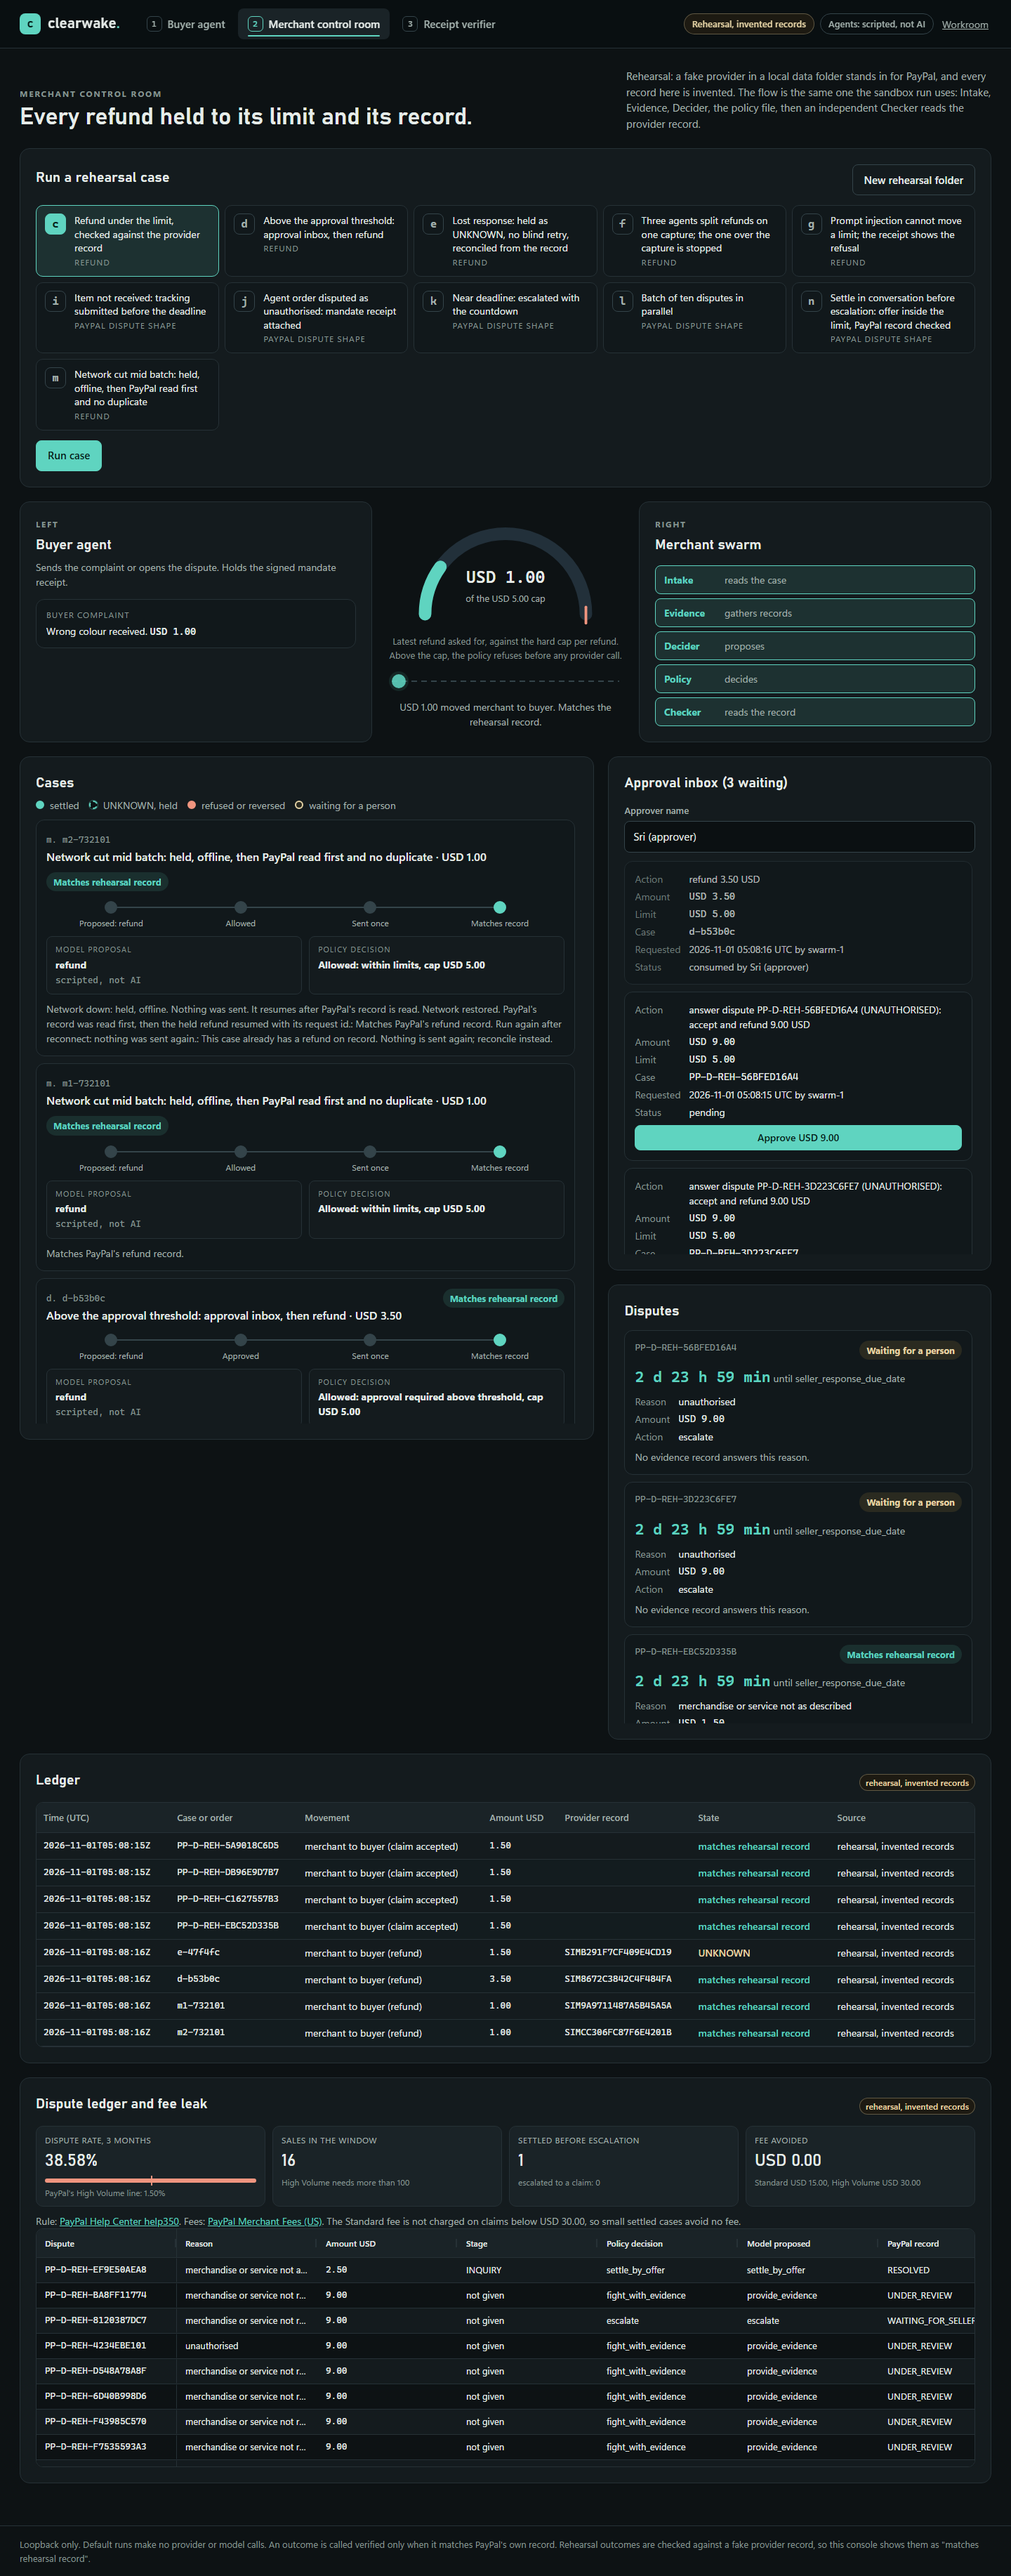
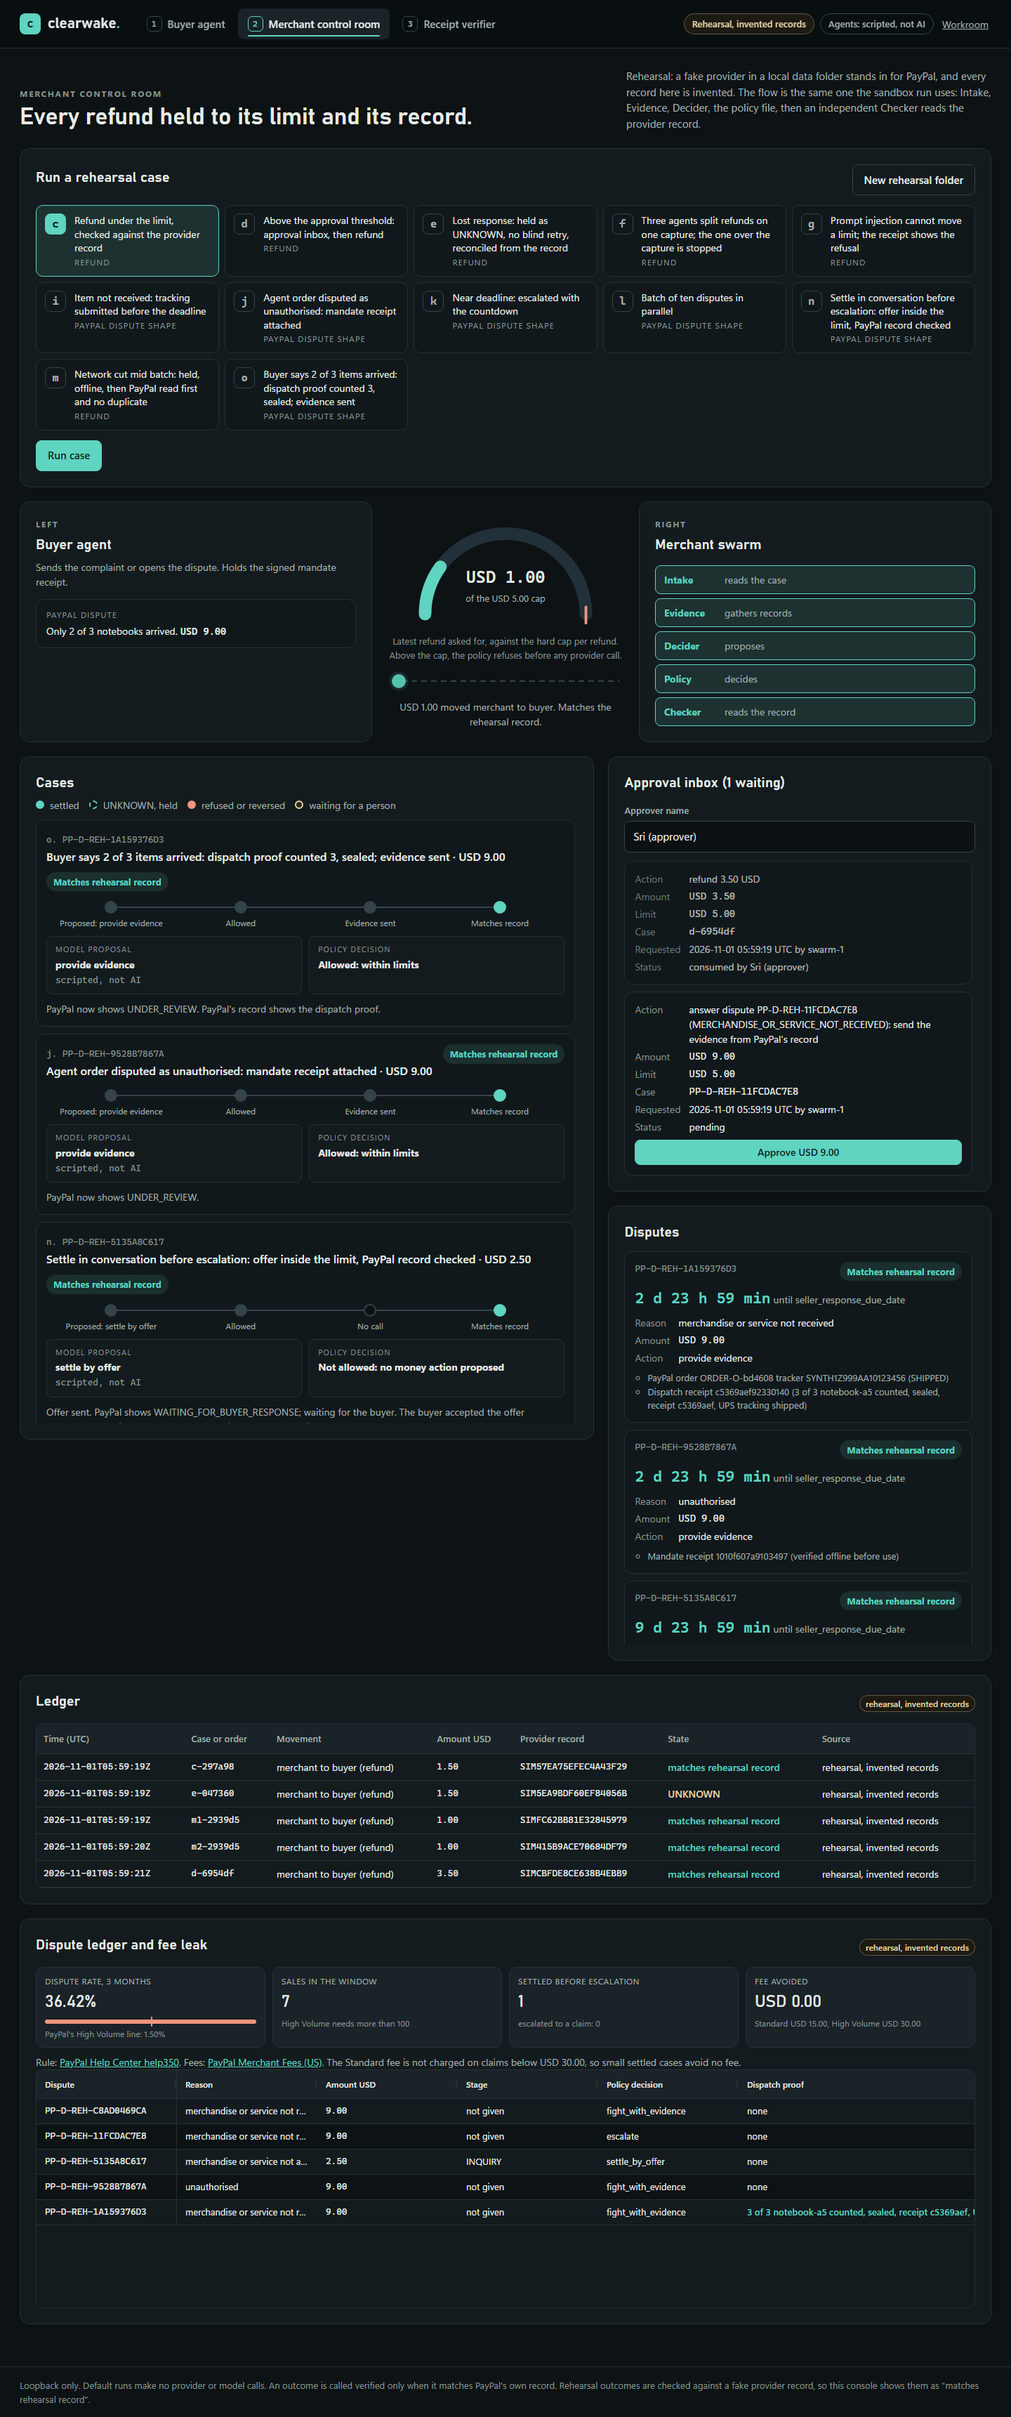
Dispatch proof: validate order ids before they touch the file system, widen the ledger column, record case o in the docs, refresh screenshots and the change log

diff --git a/web/console.js b/web/console.js
@@ -404,7 +404,7 @@ async function start() {
     { field: 'amount', headerName: 'Amount USD', minWidth: 110, cellClass: 'cell-mono' },
     { field: 'stage', headerName: 'Stage', minWidth: 120 },
     { field: 'decided', headerName: 'Policy decision', minWidth: 170 },
-    { field: 'dispatch', headerName: 'Dispatch proof', minWidth: 300, tooltipField: 'dispatch', cellClassRules: { 'cw-yes': p => /counted, sealed/.test(p.value || ''), 'cw-late': p => /^weak/.test(p.value || '') } },
+    { field: 'dispatch', headerName: 'Dispatch proof', minWidth: 470, tooltipField: 'dispatch', cellClassRules: { 'cw-yes': p => /counted, sealed/.test(p.value || ''), 'cw-late': p => /^weak/.test(p.value || '') } },
     { field: 'proposed', headerName: 'Model proposed', minWidth: 170 },
     { field: 'paypal_status', headerName: 'PayPal record', minWidth: 190 },
     { field: 'state', headerName: 'Checked', minWidth: 140, cellClassRules: { 'cell-ok': p => p.value === 'VERIFIED', 'cell-wait': p => p.value === 'UNKNOWN' || p.value === 'PENDING' } },

diff --git a/tests/test_dispatch.py b/tests/test_dispatch.py
@@ -100,6 +100,14 @@ class DispatchTests(unittest.TestCase):
         found = dispatch.assess(self.swarm, {"id": "O8"}, TRACKERS, {"received": 2, "of": 3})
         self.assertTrue(found.strong); self.assertEqual(found.documents, [])   # only photos whose hash the receipt lists are attached
 
+    def test_an_order_id_that_is_not_a_plain_identifier_never_reaches_the_file_system(self):
+        self.pack("O11")
+        for bad in ("../O11", "O11/../O11", "O 11", "", None, "x" * 80):
+            self.assertIsNone(dispatch.find(self.swarm, bad))
+            self.assertEqual(dispatch.documents(self.swarm, bad or "", []), [])
+        with self.assertRaises(ValueError):
+            dispatch.pack(self.swarm, self.table, "../escape", "CAP-X", ITEM, [THREE], True)
+
     def test_the_buyers_words_are_a_claim_to_check_never_an_instruction(self):
         self.assertEqual(dispatch.buyer_claim({"messages": [{"posted_by": "BUYER", "content": "Only 2 of 3 notebooks arrived."}]}), {"received": 2, "of": 3})
         self.assertIsNone(dispatch.buyer_claim({"messages": [{"posted_by": "SELLER", "content": "2 of 3"}]}))

diff --git a/clearwake/dispatch.py b/clearwake/dispatch.py
@@ -92,7 +92,7 @@ def pack(swarm, counter, order_id, capture_id, items, photos, sealed, ts_ms=None
 def find(swarm, order_id):
     """The newest dispatch receipt for this order in the merchant's log, and whether the whole log verifies."""
     path = Path(swarm.receipts.path)
-    if not order_id or not path.is_file():
+    if not isinstance(order_id, str) or not IDENTIFIER.fullmatch(order_id) or not path.is_file():
         return None
     verified = verify_log(str(path), swarm.receipts.public_key)["ok"]
     found = None
@@ -144,6 +144,8 @@ def assess(swarm, order, trackers, claim):
 
 def documents(swarm, order_id, hashes):
     """The stored photos, only those whose SHA-256 the signed receipt lists."""
+    if not IDENTIFIER.fullmatch(order_id):
+        return []
     out, folder = [], swarm.data / "dispatch" / order_id
     for path in sorted(folder.glob("*")) if folder.is_dir() else []:
         if path.suffix.lower() in PHOTO_TYPES and path.stat().st_size <= MAX_PHOTO and sha256_file(path) in hashes:

diff --git a/docs/RESULTS.md b/docs/RESULTS.md
@@ -24,6 +24,16 @@ Every number on this page comes from the run files in `data/runs/*.json` or from
 
 Case m used scripted rules for the refund decisions and `qwen2.5-coder:3b` through Ollama inside the boundary for the drafting that continued during the cut (6.3 s, 9.3 s and 13.1 s for one proposal in the three attempts). The first attempt sent no refund because the local model proposed `provide_evidence` for a refund case; the second sent none because the configured capture was PENDING and the capture read blocked it. Both are kept in `data/airgap/`.
 
+### Dispatch proof, case o (1 November 2026)
+
+| Case | How it ran | Result |
+| --- | --- | --- |
+| o. Buyer says 2 of 3 items arrived | rehearsal; synthetic parcel pictures (`fixtures/dispatch/`); the count came from a scripted table, labelled "scripted count, not SAM" | PASS. Strong proof (3 of 3 counted, sealed, tracking shipped, log verifies): evidence sent with the photo, PayPal's rehearsal record read back and shows the dispatch proof. Weak proof (the photo shows 2 of 3): nothing sent, the policy settled by offer |
+| o | real SAM count on a photo | **not run**: needs the gated SAM 3 weights (`tools/sam/setup.ps1`) and a photo of an open parcel |
+| o | real sandbox | **not run**: needs a sandbox dispute where the buyer says items are missing |
+
+Which model: still photos use SAM 3 (`facebook/sam3`). SAM 3.1 (`facebook/sam3.1`, 27 March 2026) is Meta's video tracker and is not claimed for photos. Meta lists a CUDA GPU as a prerequisite; this machine has none, so a CPU run is untested until the weights exist. Real timings will be added here from that run.
+
 Sandbox dispute creation by API was retried on 31 October: HTTP 400 "No permissions to set target_client_id" with the buyer's PayPal-Auth-Assertion, and `TRANSACTION_NOT_ELIGIBLE` without it. This app's token has no `disputes/update-buyer` scope, so accepting an offer as the buyer cannot be driven through the API either.
 
 ## Runs of the case runner (`scripts/cases.py`, 31 October 2026)

diff --git a/docs/HACKATHON_UPDATES.md b/docs/HACKATHON_UPDATES.md
@@ -51,6 +51,12 @@ The PayPal AI Hackathon submission period opened on 1 October 2026 (9:15 am Paci
 | 2026-10-31 22:54 | `12ebb23` | Public site for Vercel: the fee leak with sources, side by side, the boundary, the recorded sandbox run and an in-browser receipt verifier |
 | 2026-10-31 22:54 | `f60871e` | Keep receipt logs byte for byte so their signatures verify after any checkout |
 | 2026-10-31 23:00 | `a2c9cd4` | Docs for the fee leak position: README, submission notes, video script, results, sandbox runs and sources |
+| 2026-10-31 23:00 | `71395ad` | Refresh the submission period change log from git history |
+| 2026-10-31 23:03 | `6dd2f07` | Keep the local virtual environment out of the container image |
+| 2026-10-31 23:21 | `a4cde6d` | Public site URL in the README and submission notes |
+| 2026-11-01 10:38 | `1d087a2` | Console screenshots show the dispute ledger and the fee leak gauge |
+| 2026-11-01 10:58 | `7f52a0e` | Read only helpers for the demo: show a sandbox dispute, print a saved network cut run, and a boundary only check |
+| 2026-11-01 11:22 | `426a0f5` | Dispatch proof: signed packing record, strong or weak check against a buyer's claim, evidence with the photo, case o |
 
 ## Relayloom core (pinned submodule, `vendor/relayloom`, public MIT repository)
 

diff --git a/docs/SANDBOX_RUN.md b/docs/SANDBOX_RUN.md
@@ -56,6 +56,10 @@ Agents and Ollama on an internal Docker network; the verdock-core egress gateway
 * Every receipt log verified in a container started with `--network none`: 34 gateway lines, 12 merchant lines for this run.
 * Result: **PASS**. Report: `data/airgap/airgap-20261031-223749.json`. The receipts are published on the site under `site/receipts/`.
 
+## Case o, dispatch proof (1 November)
+
+Not run in the sandbox. It needs a dispute where the buyer says items are missing, and a dispatch receipt for that order (`python scripts/dispatch.py pack ...`). Attaching the packing photo to `provide-evidence` as an `evidence-file` part follows PayPal's reference and is untested on a real dispute. Rehearsal passes (see docs/RESULTS.md).
+
 ## Cases a to n (`python scripts/cases.py --sandbox`, 31 October, evening)
 
 9 PASS, 0 FAIL, 5 SKIPPED. c: refund `6SN41486G5579815G` VERIFIED. d: refund `2NB27940EC188891M` VERIFIED after approval. e: injected fault, one refund at PayPal, reconciled. i, k, l and n: SKIPPED, no answerable sandbox dispute open. m: runs in the isolated containers (above).

diff --git a/docs/DESIGN_DECISIONS.md b/docs/DESIGN_DECISIONS.md
@@ -24,3 +24,4 @@ One OpenAI compatible adapter with three backends:
 * Scripted agents, always labelled "scripted, not AI".
 
 Models only propose. The policy file decides.
+* **Dispatch proof (1 November).** A signed receipt written at packing, in the merchant's own receipt chain, so it verifies offline with the rest. The buyer's message is read only as a claim to check ("only 2 of 3 arrived") and never decides an amount or an action. Strong proof (count matches the order, sealed, tracking shows shipped, log verifies) goes out as evidence; weak proof is never sent, so Clearwake does not answer a claim of missing items with tracking alone. Only photos whose SHA-256 the receipt lists are attached. SAM runs as a separate process in its own environment, offline, so the app stays on the Python standard library. Still photos use SAM 3 because Meta's image code loads that checkpoint; SAM 3.1 is the video tracker, and the receipt names the model that actually ran.
